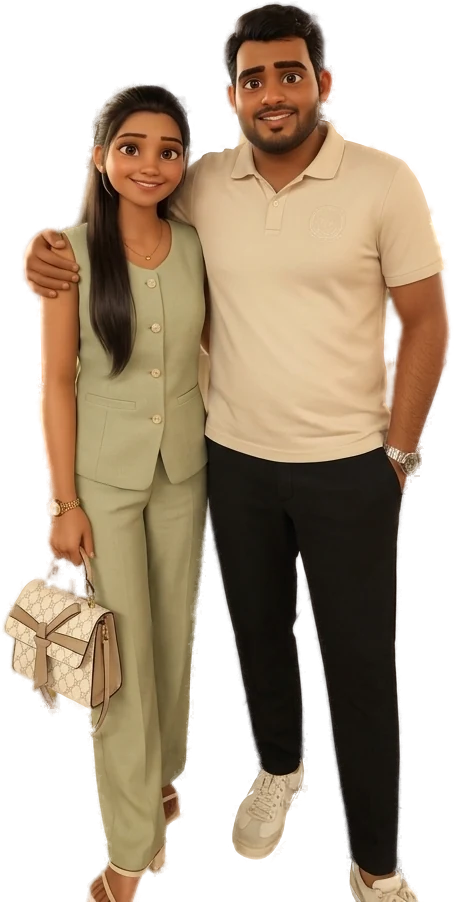
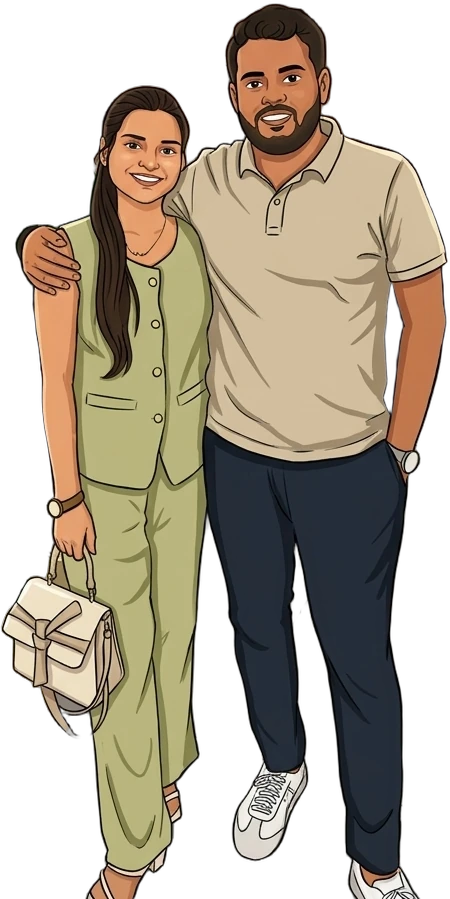
Replace couple photos and cutouts with new illustrated portraits
Claude-Session: https://claude.ai/code/session_01Wo81nZmSvDrUQditLgMUxM

diff --git a/index.html b/index.html
@@ -304,7 +304,7 @@
           <p>The Groom</p>
         </div>
         <div class="cutout-wrap">
-          <img src="images/cutout-portrait.webp" alt="Omkar and Bhagyashri" width="659" height="911" />
+          <img src="images/cutout-portrait.webp" alt="Omkar and Bhagyashri" width="652" height="897" />
         </div>
         <div class="person bride">
           <h3>Bhagyashri Nagawade</h3>
@@ -325,7 +325,7 @@
           <figcaption>Together</figcaption>
         </figure>
         <figure class="photo">
-          <img src="images/couple-2.jpg" alt="Omkar and Bhagyashri in front of a glowing golden emblem" loading="lazy" width="896" height="1195" />
+          <img src="images/couple-2.jpg" alt="Omkar and Bhagyashri in front of a decorative wall emblem" loading="lazy" width="896" height="1195" />
           <figcaption>Forever</figcaption>
         </figure>
       </div>
@@ -383,7 +383,7 @@
   <section class="blessing">
     <div class="container reveal">
       <div class="standing">
-        <img src="images/cutout-standing.webp" alt="Omkar and Bhagyashri standing together" width="455" height="902" loading="lazy" />
+        <img src="images/cutout-standing.webp" alt="Omkar and Bhagyashri standing together" width="450" height="899" loading="lazy" />
       </div>
       <p class="marathi">आपली उपस्थिती हेच आमचे आशीर्वाद</p>
       <p class="lead">Your presence is the greatest blessing we could ask for.<br />Kindly join us and shower the couple with your love.</p>
